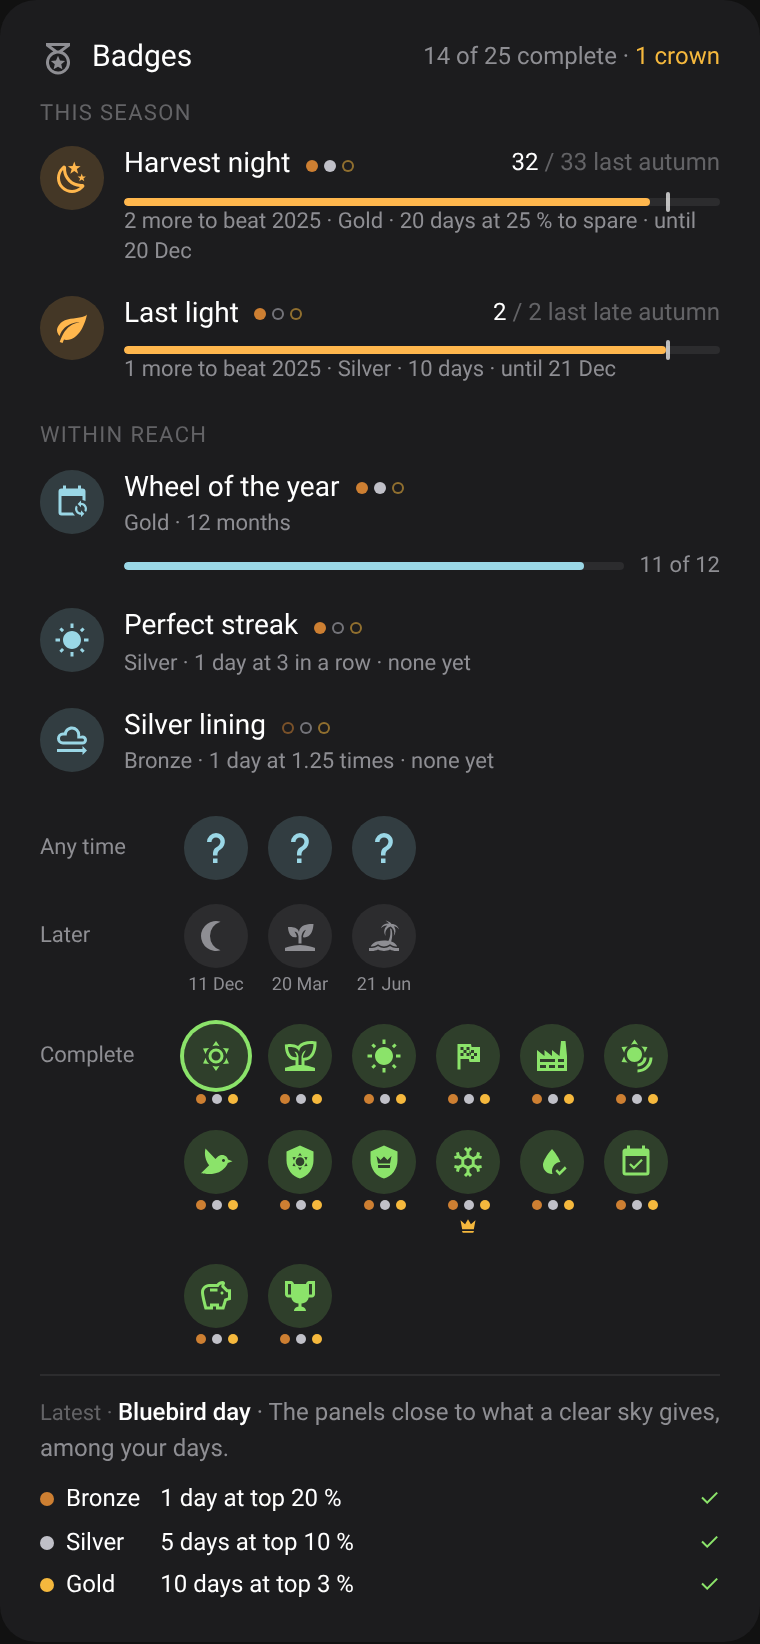
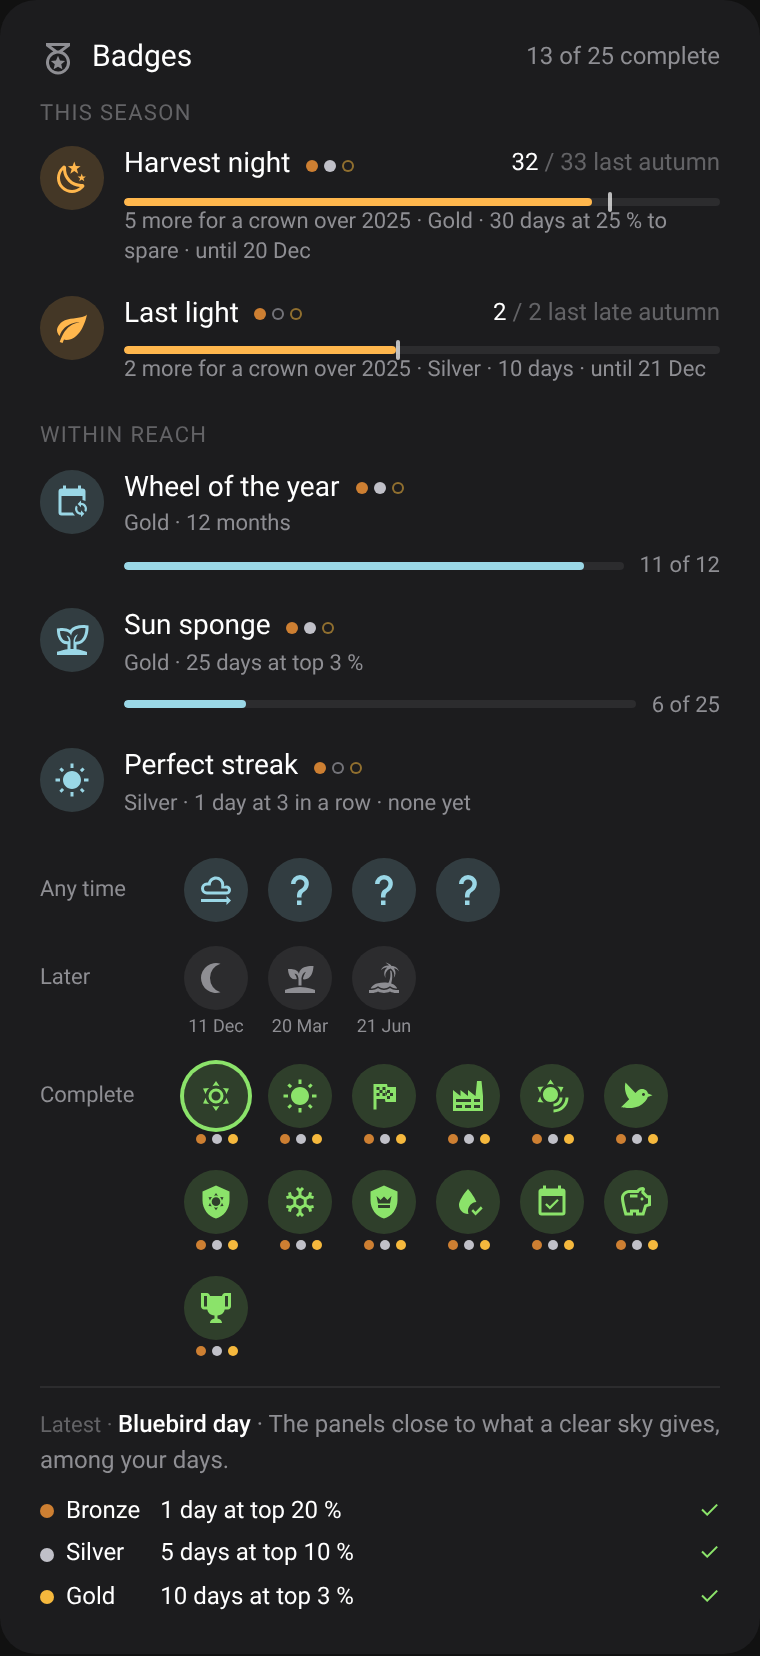
Show the real crown bar and keep older badge setups
The race row now takes its bar from the edition and shows last season as
a mark only, and a badges card set up before the This season section
keeps in-season badges where they were. The fixture comes from the
engine again, with its own profile.

diff --git a/custom_components/solar_energy_insights/frontend/solar-energy-insights.js b/custom_components/solar_energy_insights/frontend/solar-energy-insights.js
@@ -1781,10 +1781,20 @@
           midsummer: "midsummer",
         })[b.season] || b.season;
 
+      const SECTIONS = (this._config || {}).sections || [
+        "this_season",
+        "within_reach",
+        "any_time",
+        "later",
+        "complete",
+      ];
       const visible = a.badges.filter((b) => !b.locked);
-      const seasonNow = visible.filter(
-        (b) => b.season && b.in_season && b.edition && b.edition.active,
-      );
+      // Without the section (a card set up before it), they stay where they were.
+      const seasonNow = SECTIONS.includes("this_season")
+        ? visible.filter(
+            (b) => b.season && b.in_season && b.edition && b.edition.active,
+          )
+        : [];
       const inSeason = new Set(seasonNow.map((b) => b.id));
       const now = visible
         .filter(
@@ -1834,8 +1844,11 @@
       // This season: each badge against its last season, with a tick where that one ended.
       const race = (b) => {
         const e = b.edition;
-        const last = e.beat ? e.beat - 1 : null;
-        const scale = Math.max(e.days, last || 0, 1) * 1.1;
+        // Last season, played in full: the mark to see, whether or not a crown is at stake.
+        const prev = e.previous && !e.previous.partial ? e.previous : null;
+        const last = prev ? prev.days : null;
+        const scale = Math.max(e.days, last || 0, e.beat || 0, 1) * 1.1;
+        const need = Math.max((e.beat || 0) - e.days, 0);
         const tick =
           last !== null
             ? `<i style="position:absolute;left:${(
@@ -1864,9 +1877,9 @@
           ? `<span style="color:${GOLD}"><ha-icon icon="mdi:crown" style="--mdc-icon-size:12px"></ha-icon> better than last ${seasonWord(
               b,
             )} since ${dm(e.crowned_on)}</span>`
-          : last !== null
-            ? `${e.beat - e.days} more to beat ${e.previous.label}`
-            : `sets the bar for next ${seasonWord(b)}`;
+          : e.beat
+            ? `${need} more for a crown over ${prev.label}`
+            : "";
         const step = nextStep(b);
         return tapRow(
           b,
@@ -1882,7 +1895,7 @@
           )}</span>`
         : `<span style="color:${C.faint}"> this ${seasonWord(b)}</span>`
     }</span></div>${track}${caption(
-      `${versus}${step ? " · " + step : ""} · until ${dm(e.until)}`,
+      [versus, step, `until ${dm(e.until)}`].filter(Boolean).join(" · "),
     )}</div>`,
         );
       };
@@ -2027,13 +2040,6 @@
             : ""
         }`,
       );
-      const SECTIONS = (this._config || {}).sections || [
-        "this_season",
-        "within_reach",
-        "any_time",
-        "later",
-        "complete",
-      ];
       const label = (t) =>
         `<div style="font-size:11px;color:${C.faint};text-transform:uppercase;letter-spacing:.06em;margin:10px 0 2px">${t}</div>`;
       if (SECTIONS.includes("this_season") && seasonNow.length)
